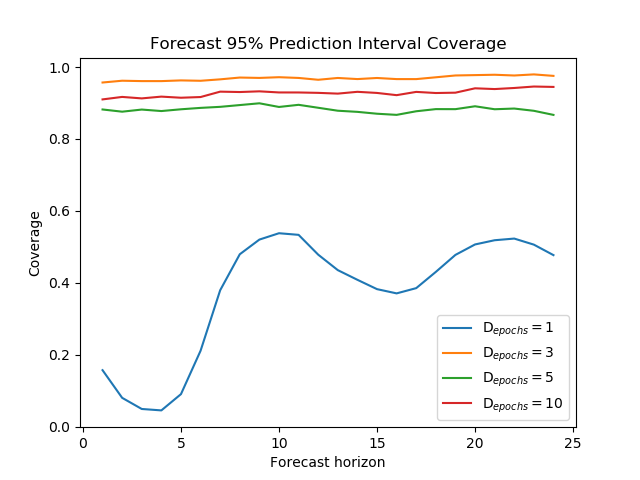
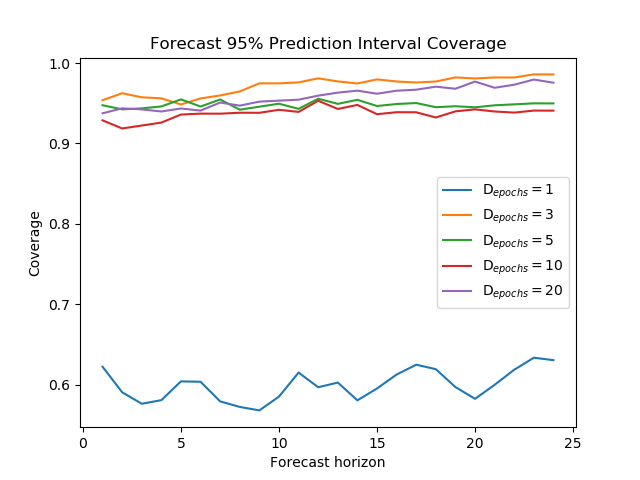
found bug in validation calculation. Runs faster now

diff --git a/plot_results.py b/plot_results.py
@@ -50,10 +50,13 @@ def plot_validation_results(model_paths, file_labels, title, save_file='Validati
     plot_results(save_file=save_file + '_validation_smape', model_paths=model_paths, file_labels=file_labels, title=title[1],
                  x_label='Forecast horizon', y_label='Symmetric Mean Absolute Percentage Error (sMAPE)', value='smape',
                  data='validation', plot_rate=1)
-    plot_results(save_file=save_file + '_validation_80', model_paths=model_paths, file_labels=file_labels, title=title[2],
+    plot_results(save_file=save_file + '_validation_mase', model_paths=model_paths, file_labels=file_labels, title=title[2],
+                 x_label='Forecast horizon', y_label='Mean Absolute Scaled Error (MASE)', value='mase',
+                 data='test', plot_rate=1)
+    plot_results(save_file=save_file + '_validation_80', model_paths=model_paths, file_labels=file_labels, title=title[3],
                  x_label='Forecast horizon', y_label='Coverage', value='coverage_80', data='validation',
                  plot_rate=1)
-    plot_results(save_file=save_file + '_validation_95', model_paths=model_paths, file_labels=file_labels, title=title[3],
+    plot_results(save_file=save_file + '_validation_95', model_paths=model_paths, file_labels=file_labels, title=title[4],
                  x_label='Forecast horizon', y_label='Coverage', value='coverage_95', data='validation',
                  plot_rate=1)
 
@@ -65,10 +68,13 @@ def plot_test_results(model_paths, file_labels, title, save_file='Test'):
     plot_results(save_file=save_file + '_test_smape', model_paths=model_paths, file_labels=file_labels, title=title[1],
                  x_label='Forecast horizon', y_label='Symmetric Mean Absolute Percentage Error (sMAPE)', value='smape',
                  data='test', plot_rate=1)
-    plot_results(save_file=save_file + '_test_80', model_paths=model_paths, file_labels=file_labels, title=title[2],
+    plot_results(save_file=save_file + '_test_mase', model_paths=model_paths, file_labels=file_labels, title=title[2],
+                 x_label='Forecast horizon', y_label='Mean Absolute Scaled Error (MASE)', value='mase',
+                 data='test', plot_rate=1)
+    plot_results(save_file=save_file + '_test_80', model_paths=model_paths, file_labels=file_labels, title=title[3],
                  x_label='Forecast horizon', y_label='Coverage', value='coverage_80', data='test',
                  plot_rate=1)
-    plot_results(save_file=save_file + '_test_95', model_paths=model_paths, file_labels=file_labels, title=title[3],
+    plot_results(save_file=save_file + '_test_95', model_paths=model_paths, file_labels=file_labels, title=title[4],
                  x_label='Forecast horizon', y_label='Coverage', value='coverage_95', data='test',
                  plot_rate=1)
 
@@ -84,17 +90,17 @@ def main():
     noise_label = ['Noise vector = 1', 'Noise vector = 5', 'Noise vector = 10', 'Noise vector = 25',
                    'Noise vector = 50', 'Noise vector = 100']
 
-    d_epochs_paths = ['results/sine/recurrentgan/Epochs_1500_D_epochs_1_batch_size_64_noise_vec_50_lr_0.001000',
+    d_epochs_paths = ['results/sine/recurrentgan/rnn_epochs_1500_D_epochs_1_batch_size_32_noise_vec_100_gnodes_16_dnodes_64_loss_kl_lr_0.001000',
                       # 'results/sine/recurrentgan/Epochs_1500_D_epochs_2_batch_size_64_noise_vec_50_lr_0.001000',
-                      'results/sine/recurrentgan/Epochs_1500_D_epochs_3_batch_size_64_noise_vec_50_lr_0.001000',
-                      'results/sine/recurrentgan/Epochs_1500_D_epochs_5_batch_size_64_noise_vec_50_lr_0.001000',
-                      'results/sine/recurrentgan/Epochs_1500_D_epochs_10_batch_size_64_noise_vec_50_lr_0.001000',
+                      'results/sine/recurrentgan/rnn_epochs_1500_D_epochs_3_batch_size_32_noise_vec_100_gnodes_16_dnodes_64_loss_kl_lr_0.001000',
+                      'results/sine/recurrentgan/rnn_epochs_1500_D_epochs_5_batch_size_32_noise_vec_100_gnodes_16_dnodes_64_loss_kl_lr_0.001000',
+                      'results/sine/recurrentgan/rnn_epochs_1500_D_epochs_10_batch_size_32_noise_vec_100_gnodes_16_dnodes_64_loss_kl_lr_0.001000',
                       # 'results/sine/recurrentgan/Epochs_1500_D_epochs_15_batch_size_64_noise_vec_50_lr_0.001000',
-                      # 'results/sine/recurrentgan/Epochs_1500_D_epochs_20_batch_size_64_noise_vec_50_lr_0.001000',
+                      'results/sine/recurrentgan/rnn_epochs_1500_D_epochs_20_batch_size_32_noise_vec_100_gnodes_16_dnodes_64_loss_kl_lr_0.001000',
                       # 'results/sine/recurrentgan/Epochs_1500_D_epochs_50_batch_size_64_noise_vec_50_lr_0.001000'
                       ]
     d_epochs_label = ['D$_{epochs}=1$',
-                      'D$_{epochs}=2$',
+                      # 'D$_{epochs}=2$',
                       'D$_{epochs}=3$',
                       'D$_{epochs}=5$',
                       'D$_{epochs}=10$',
@@ -109,10 +115,10 @@ def main():
                         'results/sine/recurrentgan/rnn_epochs_1500_D_epochs_5_batch_size_256_noise_vec_100_gnodes_16_dnodes_64_loss_kl_lr_0.001000',]
     batch_size_labels = ['Batch size = 16', 'Batch size = 32', 'Batch size = 64', 'Batch size = 128', 'Batch size = 256']
 
-    save_file_as = 'sine_noise_vec'
+    save_file_as = 'sine_d_epochs'
 
-    model_paths = noise_paths
-    labels = noise_label
+    model_paths = d_epochs_paths
+    labels = d_epochs_label
     plot_training_results(model_paths=model_paths,
                           file_labels=labels,
                           save_file=save_file_as,
@@ -134,6 +140,7 @@ def main():
                             save_file=save_file_as,
                             title=['Forecast Validation Mean Squared Error',
                                    'Forecast Validation Symmetric Mean Absolute Percentage Error',
+                                   'Forecast Mean Absolute Scaled Error',
                                    'Forecast Validation 80% Prediction Interval Coverage',
                                    'Forecast Validation 95% Prediction Interval Coverage'])
     plot_test_results(model_paths=model_paths,
@@ -141,6 +148,7 @@ def main():
                       save_file=save_file_as,
                       title=['Forecast Mean Squared Error',
                              'Forecast Symmetric Mean Absolute Percentage Error',
+                             'Forecast Mean Absolute Scaled Error',
                              'Forecast 80% Prediction Interval Coverage',
                              'Forecast 95% Prediction Interval Coverage'])
 

diff --git a/time_series_pipeline_baseline.py b/time_series_pipeline_baseline.py
@@ -33,12 +33,21 @@ from utility.split_data import split_sequence
 from utility.compute_statistics import *
 
 
-def test_model(model, data, naive_error, cfg, plot=True, file_name="/test_results.txt"):
+def test_model(model, data, naive_error, cfg, scaler, plot=True, file_name="/test_results.txt"):
     forecast = model.monte_carlo_forecast(data, steps=int(len(data) - model.window_size), plot=plot)  # steps x horizon x mc_forward_passes
     forecast_mse = sliding_window_mse(forecast, data[model.window_size:], model.forecasting_horizon)
-    forecast_std = np.sqrt(model.var)
+    forecast_std = np.sqrt(model.variance)
 
-    forecast_smape = sliding_window_smape(forecast, data[model.window_size:], model.forecasting_horizon)
+    print(forecast.shape)
+
+    if cfg['model_name'].lower() == 'es':
+        forecast_smape = sliding_window_smape(scaler.inverse_transform(forecast-10),
+                                              scaler.inverse_transform(data[model.window_size:]-10),
+                                              model.forecasting_horizon)
+    else:
+        forecast_smape = sliding_window_smape(scaler.inverse_transform(forecast),
+                                              scaler.inverse_transform(data[model.window_size:]),
+                                              model.forecasting_horizon)
 
     forecast_mase = sliding_window_mase(forecast, data[model.window_size:], model.forecasting_horizon, naive_error)
 
@@ -51,8 +60,8 @@ def test_model(model, data, naive_error, cfg, plot=True, file_name="/test_result
                                           lower_limits=model.pred_int_95[:, :, 0],
                                           forecast_horizon=model.forecasting_horizon)
 
-    width_80 = model.pred_int_80[:, :, 1] - model.pred_int_80[:, :, 0]
-    width_95 = model.pred_int_95[:, :, 1] - model.pred_int_95[:, :, 0]
+    width_80 = np.mean(model.pred_int_80[:, :, 1] - model.pred_int_80[:, :, 0], axis=0)
+    width_95 = np.mean(model.pred_int_95[:, :, 1] - model.pred_int_95[:, :, 0], axis=0)
 
     file_path = cfg['results_path'] + file_name
 
@@ -66,9 +75,9 @@ def test_model(model, data, naive_error, cfg, plot=True, file_name="/test_result
     w_95 = width_95
 
     with open(file_path, "a") as f:
-        f.write("mse,smape,mase,std,coverage_80,coverage_95,width_80,width_95\n")
-        for (mse, smape, mase, std, c_80, c_95, w_80, w_95) in zip(mse, smape, mase, std, c_80, c_95, w_80, w_95):
-            f.write("{0},{1},{2},{3},{4},{5},{6},{7}\n".format(mse, smape, mase, std, c_80, c_95, w_80, w_95))
+        f.write("mse,smape,mase,coverage_80,coverage_95,width_80,width_95\n")
+        for (mse, smape, mase, c_80, c_95, w_80, w_95) in zip(mse, smape, mase, c_80, c_95, w_80, w_95):
+            f.write("{0},{1},{2},{3},{4},{5},{6}\n".format(mse, smape, mase, c_80, c_95, w_80, w_95))
 
     return mse, smape, mase, std, c_80, c_95, w_80, w_95
 
@@ -80,14 +89,14 @@ def pipeline():
     coverage_80_list, coverage_95_list = [], []
     for i in range(1):
         model = configure_model(cfg=cfg)
-        train, test = load_data(cfg=cfg, window_size=model.window_size)
+        train, test, scaler = load_data(cfg=cfg, window_size=model.window_size)
         naive_error = compute_naive_error(train, seasonality=12, forecast_horizon=model.forecasting_horizon)
         start_time = time.time()
         trained_model = train_model(model=model, data=train, epochs=cfg['epochs'],
                                     batch_size=cfg['batch_size'], verbose=1)
         training_time = time.time() - start_time
         mse, smape, mase, std, c_80, c_95, w_80, w_95 = \
-            test_model(model=trained_model, data=test, naive_error=naive_error, cfg=cfg, plot=False)
+            test_model(model=trained_model, data=test, naive_error=naive_error, scaler=scaler, cfg=cfg, plot=False)
         forecast_mse_list.append(mse), forecast_smape_list.append(smape), forecast_mase_list.append(mase)
         coverage_80_list.append(c_80), coverage_95_list.append(c_95)
         width_80_list.append(w_80), width_95_list.append(w_95)

diff --git a/time_series_pipeline_with_validation.py b/time_series_pipeline_with_validation.py
@@ -55,7 +55,7 @@ def train_model(model, data, epochs, cfg, batch_size=128, verbose=1):
 
     # Split training data into (x_t-l, ..., x_t), (x_t+1) pairs
     x_train, y_train = split_sequence(train, model.window_size, model.output_size)
-    x_val, y_val = split_sequence(data, model.window_size, model.output_size)
+    x_val, y_val = split_sequence(val, model.window_size, model.output_size)
     history = model.fit(x_train, y_train, x_val=x_val, y_val=y_val, epochs=epochs, batch_size=batch_size, verbose=verbose)
 
     validation_mse = compute_validation_error(model, val)
@@ -63,7 +63,7 @@ def train_model(model, data, epochs, cfg, batch_size=128, verbose=1):
     return model, validation_mse, val
 
 
-def test_model(model, data, validation_mse, cfg, naive_error, plot=True, file_name="/test_results.txt"):
+def test_model(model, data, validation_mse, cfg, naive_error, scaler, plot=True, file_name="/test_results.txt"):
     forecast = model.monte_carlo_forecast(data, steps=int(len(data)-model.window_size), plot=plot)  # steps x horizon x mc_forward_passes
     forecast_mean = forecast.mean(axis=-1)
     forecast_std = forecast.std(axis=-1)
@@ -82,7 +82,9 @@ def test_model(model, data, validation_mse, cfg, naive_error, plot=True, file_na
         plt.legend()
         plt.show()
     forecast_mse = sliding_window_mse(forecast_mean, data[model.window_size:], model.forecasting_horizon)
-    forecast_smape = sliding_window_smape(forecast_mean, data[model.window_size:], model.forecasting_horizon)
+    forecast_smape = sliding_window_smape(scaler.inverse_transform(forecast_mean),
+                                          scaler.inverse_transform(data[model.window_size:]),
+                                          model.forecasting_horizon)
     forecast_mase = sliding_window_mase(forecast_mean, data[model.window_size:], model.forecasting_horizon, naive_error)
 
     coverage_80_1 = sliding_window_coverage(actual_values=data[model.window_size:],
@@ -167,18 +169,17 @@ def pipeline():
     c_80_list, c_95_list = [], []
     for i in range(1):
         model = configure_model(cfg=cfg)
-        train, test = load_data(cfg=cfg, window_size=model.window_size)
+        train, test, scaler = load_data(cfg=cfg, window_size=model.window_size)
         naive_error = compute_naive_error(train, seasonality=12, forecast_horizon=model.forecasting_horizon)
         start_time = time.time()
         trained_model, validation_mse, val = train_model(model=model, data=train, epochs=cfg['epochs'], cfg=cfg,
                                                          batch_size=cfg['batch_size'], verbose=0)
         training_time = time.time() - start_time
         test_model(model=trained_model, data=val, validation_mse=validation_mse, cfg=cfg, naive_error=naive_error,
-                   plot=False,
-                   file_name="/validation_results.txt")
+                   scaler=scaler, plot=False, file_name="/validation_results.txt")
         mse, smape, mase, std, c_80, c_95, w_80, w_95 = test_model(model=trained_model, data=test,
                                                                    validation_mse=validation_mse, cfg=cfg,
-                                                                   naive_error=naive_error, plot=False,
+                                                                   naive_error=naive_error, scaler=scaler, plot=False,
                                                                    file_name="/test_results.txt")
 
         forecast_mse_list.append(mse), forecast_smape_list.append(smape), forecast_mase_list.append(mase)

diff --git a/time_series_pipeline.py b/time_series_pipeline.py
@@ -27,7 +27,7 @@ import time
 import matplotlib.pyplot as plt
 from tqdm import tqdm
 from sklearn.metrics import mean_squared_error, mutual_info_score, normalized_mutual_info_score
-from sklearn.preprocessing import StandardScaler, MinMaxScaler
+from sklearn.preprocessing import StandardScaler, MinMaxScaler, RobustScaler
 import seaborn as sns
 
 from config.load_config import load_config_file, write_config_file
@@ -68,15 +68,19 @@ def load_data(cfg, window_size):
     train = data[:-int(len(data)*cfg['test_split'])]
     test = data[-int(len(data)*cfg['test_split']+window_size):]
     if not cfg['data_source'].lower() == 'sine':
-        train, test = scale_data(train, test)
-    return train, test
+        train, test, scaler = scale_data(train, test)
+    if cfg['model_name'].lower() == 'es':
+        train = train + 10
+        test = test + 10
+    return train, test, scaler
 
 
 def scale_data(train, test):
-    scaler = MinMaxScaler(feature_range=(10 ** (-10), 1))
+    # scaler = MinMaxScaler(feature_range=(10 ** (-10), 1))
+    scaler = RobustScaler()
     train = scaler.fit_transform(train)
     test = scaler.transform(test)
-    return train, test
+    return train, test, scaler
 
 
 def plot_results(y, label, y2=None, y2_label=None, title='', y_label='Value'):
@@ -170,7 +174,7 @@ def pipeline():
     forecast_std_list = []
     for i in range(1):
         model = configure_model(cfg=cfg)
-        train, test = load_data(cfg=cfg, window_size=model.window_size)
+        train, test, scaler = load_data(cfg=cfg, window_size=model.window_size)
         start_time = time.time()
         trained_model = train_model(model=model, data=train, epochs=cfg['gan']['epochs'],
                                     batch_size=cfg['gan']['batch_size'], verbose=1)

diff --git a/models/recurrent_gan/RecurrentGAN.py b/models/recurrent_gan/RecurrentGAN.py
@@ -212,6 +212,10 @@ class RecurrentGAN(GAN):
         coverage_80_pi = []
         coverage_95_pi = []
         validation_mse = []
+
+        best_validation_mse = 10 ** 10
+        best_generator = self.generator
+        best_epoch = 0
         for epoch in range(epochs):
 
             # ---------------------
@@ -252,6 +256,8 @@ class RecurrentGAN(GAN):
 
             G_loss[epoch] = g_loss
             D_loss[epoch] = d_loss[0]
+
+
             # Print the progress
             if epoch % self.plot_rate == 0:
                 if self.print_coverage and (x_val is None) and (y_val is None):
@@ -299,6 +305,15 @@ class RecurrentGAN(GAN):
             if (epoch+1) % self.save_model_interval == 0:
                 self.discriminator.save(self.results_path + "/discriminator_%d.h5" % (epoch+1))
                 self.generator.save(self.results_path + "/generator_%d.h5" % (epoch+1))
+                if validation_mse[-1] < best_validation_mse:
+                    best_validation_mse = validation_mse[-1]
+                    best_generator = self.generator
+                    best_epoch = epoch+1
+
+        best_generator.save(self.results_path + "/generator_best_%d.h5" % best_epoch)
+        self.generator = best_generator
+        print('Best model at epoch %d' % best_epoch)
+
         if self.print_coverage:
             file_name = self.results_path + "/training_results.txt"
             with open(file_name, "a") as f:

diff --git a/models/baseline_models/RNN.py b/models/baseline_models/RNN.py
@@ -39,7 +39,7 @@ class RNN:
         inp = Input(shape=input_shape)
 
         # x = SimpleRNN(64, return_sequences=False)(inp)
-        x = LSTM(64, return_sequences=False)(inp)
+        x = LSTM(128, return_sequences=False)(inp)
 
         x = Dropout(0.4)(x)
         x = Dense(64, activation='relu')(x)
@@ -57,7 +57,8 @@ class RNN:
         data = generate_sine_data(data_samples)
         x_train, y_train = split_sequence(data, self.window_size, self.forecasting_horizon)
 
-        history = self.model.fit(x_train, y_train[:, :, 0], epochs=epochs, batch_size=batch_size, validation_split=0.1, verbose=2)
+        history = self.model.fit(x_train, y_train[:, :, 0], epochs=epochs, batch_size=batch_size, validation_split=0.1,
+                                 verbose=2, shuffle=True)
 
         plt.figure()
         plt.plot(np.linspace(1, epochs, epochs), history.history['loss'], label='Training loss')
@@ -68,7 +69,8 @@ class RNN:
 
     def fit(self, x, y, x_val=None, y_val=None, epochs=1, batch_size=32, verbose=2):
         # Load the data
-        history = self.model.fit(x, y[:, :, 0], epochs=epochs, batch_size=batch_size, verbose=verbose)
+        history = self.model.fit(x, y[:, :, 0], validation_data=[x_val, y_val[:, :, 0]], epochs=epochs,
+                                 batch_size=batch_size, verbose=2, shuffle=True)
         return history
 
     def forecast(self, x):

diff --git a/models/baseline_models/ES.py b/models/baseline_models/ES.py
@@ -124,4 +124,4 @@ class ES:
         self.pred_int_80 = np.concatenate([forecasts - 1.28 * forecast_std, forecasts + 1.28 * forecast_std], axis=-1)
         self.pred_int_95 = np.concatenate([forecasts - 1.96 * forecast_std, forecasts + 1.96 * forecast_std], axis=-1)
         print(self.pred_int_80.shape)
-        return forecasts
+        return forecasts[:, :, 0]
